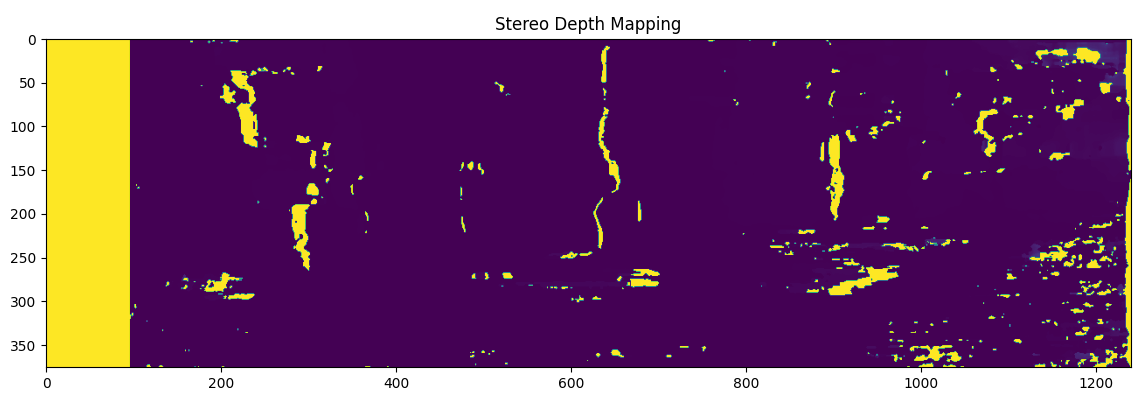
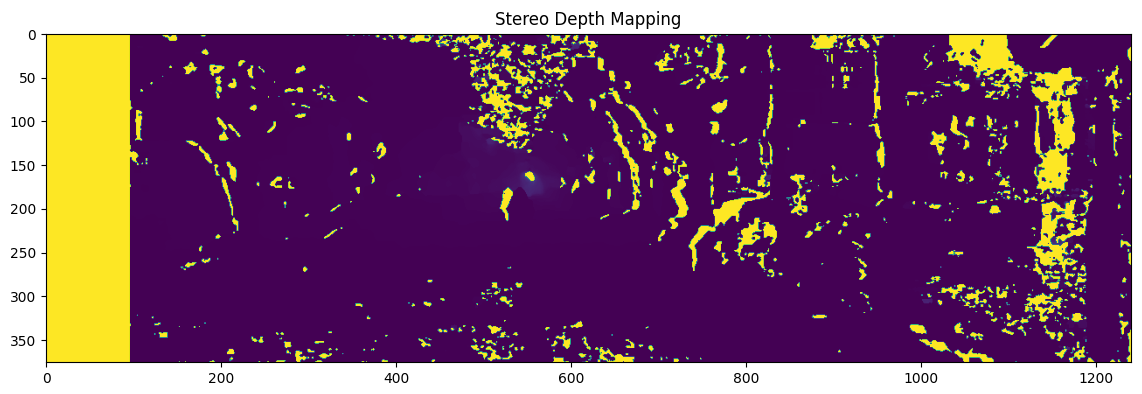
Feture Matching and Code Refactoring

diff --git a/script/dataloader.py b/script/dataloader.py
@@ -19,14 +19,13 @@ pose_path = config['data']['pose_path']
 
 
 class DataLoader(object):
-    def __init__(self, sequence, lidar=False, low_memory=True):
+    def __init__(self, sequence, low_memory=True):
         """
         :params str sequence: Image path.
         :params bool lidar: lidar data.
         :params bool low_memory: If you have low memory in your laptop(e.g. Your RAM < 32GB), set the value to True.    
         """
 
-        self.lidar = lidar
         self.low_memory = low_memory
 
         # Set the directories for images and ground truth
@@ -35,13 +34,11 @@ class DataLoader(object):
         poses = pd.read_csv(self.poses_dir, delimiter=' ', header=None)
 
         # Make lists of left and right camera images to iterate
-        self.left_camera_images = os.listdir(self.sequence_dir + 'image_0')
-        self.right_camera_images = os.listdir(self.sequence_dir + 'image_1')
+        self.left_camera_images = sorted(
+            os.listdir(self.sequence_dir + 'image_0'))
+        self.right_camera_images = sorted(
+            os.listdir(self.sequence_dir + 'image_1'))
 
-        # For lidar data points
-        if lidar:
-            self.velodyne_files = os.listdir(self.sequence_dir + 'velodyne')
-            self.lidar_path = self.sequence_dir + 'velodyne/'
         self.frames = len(self.left_camera_images)
 
         # Extract the calibration parameters from P matrix
@@ -51,11 +48,6 @@ class DataLoader(object):
         # Projection Matrices
         self.P0 = np.array(calibration.loc['P0:']).reshape((3, 4))
         self.P1 = np.array(calibration.loc['P1:']).reshape((3, 4))
-        self.P2 = np.array(calibration.loc['P2:']).reshape((3, 4))
-        self.P3 = np.array(calibration.loc['P3:']).reshape((3, 4))
-
-        # Transformation Matrix for lidar
-        #self.Tr = np.array(calibration.loc['Tr:']).reshape((3, 4))
 
         # Extract timestamps from the file
         self.times = np.array(pd.read_csv(self.sequence_dir + 'times.txt',
@@ -75,18 +67,13 @@ class DataLoader(object):
 
             # Store two left and two right frames for testing purposes
             self.first_image_left = cv2.imread(self.sequence_dir + 'image_0/'
-                                               + self.left_camera_images[0], 0)
+                                               + self.left_camera_images[0])
             self.first_image_right = cv2.imread(self.sequence_dir + 'image_1/'
-                                                + self.right_camera_images[0], 0)
+                                                + self.right_camera_images[0])
             self.second_image_left = cv2.imread(self.sequence_dir + 'image_0/'
-                                                + self.left_camera_images[1], 0)
+                                                + self.left_camera_images[1])
             self.second_image_right = cv2.imread(self.sequence_dir + 'image_1/'
-                                                 + self.right_camera_images[1], 0)
-
-            if self.lidar:
-                self.first_pointcloud = np.fromfile(self.lidar_path + self.velodyne_files[0],
-                                                    dtype=np.float32,
-                                                    count=-1).reshape((-1, 4))
+                                                 + self.right_camera_images[1])
 
             # Image dimensions
             self.image_height = self.first_image_left.shape[0]
@@ -105,18 +92,11 @@ class DataLoader(object):
                     self.sequence_dir + 'image_0/' + left))
                 self.right_images.append(cv2.imread(
                     self.sequence_dir + 'image_1/' + right))
-                if self.lidar:
-                    pointcloud = np.fromfile(self.lidar_path + self.velodyne_files[i],
-                                             dtype=np.float32,
-                                             count=-1).reshape([-1, 4])
-                    self.pointclouds.append(pointcloud)
 
             self.first_image_left = self.left_images[0]
             self.first_image_right = self.right_images[0]
             self.second_image_left = self.left_images[1]
             self.second_image_right = self.right_images[1]
-            if self.lidar:
-                self.first_pointcloud = self.pointclouds[0]
 
             self.image_height = self.left_images[0].shape[0]
             self.image_width = self.left_images[0].shape[1]
@@ -127,11 +107,6 @@ class DataLoader(object):
                             for left in self.left_camera_images)
         self.right_images = (cv2.imread(self.sequence_dir + 'image_1/' + right, 0)
                              for right in self.right_camera_images)
-        if self.lidar:
-            self.pointclouds = (np.fromfile(self.lidar_path + velodyne_file,
-                                            dtype=np.float32,
-                                            count=-1).reshape((-1, 4))
-                                for velodyne_file in self.velodyne_files)
         pass
 
     # Augmented Rotation and Translated Matrix from Ground Truth

diff --git a/script/utils.py b/script/utils.py
@@ -1,7 +1,10 @@
 import cv2
 import datetime
 import numpy as np
+import matplotlib.pyplot as plt
 
+
+############################################ Stereo Depth Estimation #########################################
 
 def disparity_mapping(left_image, right_image, rgb=False, verbose=False):
     '''
@@ -122,3 +125,69 @@ def stereo_depth(left_image, right_image, P0, P1, rgb=False, verbose=False):
     depth = depth_mapping(disp_map, l_intrinsic, l_translation, r_translation)
 
     return depth, disp_map
+
+
+############################################ Stereo Depth Estimation #########################################
+
+
+######################################### Feature Extraction and Matching ####################################
+
+def feature_extractor(image, detector='sift', mask=None):
+    """
+    provide keypoints and descriptors
+
+    :params image: image from the dataset
+
+    """
+    if detector == 'sift':
+        create_detector = cv2.SIFT_create()
+    elif detector == 'orb':
+        create_detector = cv2.ORB_create()
+
+    keypoints, descriptors = create_detector.detectAndCompute(image, mask)
+
+    return keypoints, descriptors
+
+
+def feature_matching(first_descriptor, second_descriptor, detector='sift', k=2):
+    """
+    Match features between two images
+
+    """
+
+    if detector == 'sift':
+        feature_matcher = cv2.BFMatcher_create(cv2.NORM_L2, crossCheck=False)
+    elif detector == 'orb':
+        feature_matcher = cv2.BFMatcher_create(
+            cv2.NORM_HAMMING2, crossCheck=False)
+    matches = feature_matcher.knnMatch(
+        first_descriptor, second_descriptor, k=k)
+
+    return matches
+
+
+def filter_matches_distance(matches, distance_threshold):
+    """
+    Filter matched features from two images by distance between the best matches
+
+    """
+    filtered_matches = []
+    for match1, match2 in matches:
+        if match1.distance <= distance_threshold * match2.distance:
+            filtered_matches.append(match1)
+
+    return filtered_matches
+
+
+def visualize_matches(first_image, second_image, keypoint_one, keypoint_two, matches):
+    """
+    Visualize corresponding matches in two images
+
+    """
+    show_matches = cv2.drawMatches(
+        first_image, keypoint_one, second_image, keypoint_two, matches, None, flags=2)
+    plt.figure(figsize=(15, 5), dpi=100)
+    plt.imshow(show_matches)
+    plt.show()
+
+######################################### Feature Extraction and Matching ####################################

diff --git a/script/main.py b/script/main.py
@@ -1,0 +1,70 @@
+import cv2
+import datetime
+import matplotlib.pyplot as plt
+import numpy as np
+import os
+import pandas as pd
+import yaml
+from dataloader import DataLoader
+from utils import stereo_depth, feature_extractor, feature_matching, filter_matches_distance, visualize_matches
+from mpl_toolkits.mplot3d import Axes3D
+
+
+# Driver Code
+if __name__ == '__main__':
+
+    # Load Config File
+    with open("../config/initial_config.yaml", "r") as stream:
+        try:
+            config = yaml.safe_load(stream)
+        except yaml.YAMLError as error:
+            print(error)
+
+    # Declare Necessary Variables
+    sequence = config['data']['sequence']
+
+    # Create Instances
+    data_handler = DataLoader(sequence=sequence)
+
+    # Local variables
+    left_image = data_handler.first_image_left
+    right_image = data_handler.first_image_right
+    next_left_image = data_handler.second_image_left
+    left_camera_matrix = data_handler.P0
+    right_camera_matrix = data_handler.P1
+
+    # Visualise Ground Truth
+    print(data_handler.gt_visualisation())
+
+    # # To know matrices of each frame wrt. to the world coordinate
+    # print(
+    #     f'The translation of that frame wrt. world coordinate \n{data_handler.gt_translation_matrix()}\n')
+    # print(
+    #     f'The rotation of that frame wrt. world coordinate \n{data_handler.gt_rotation_matrix()}\n')
+
+    data_handler.reset_frames()
+
+    # depth and disparity maps
+    depth, disp_map = stereo_depth(left_image,
+                                   right_image,
+                                   left_camera_matrix,
+                                   right_camera_matrix)
+
+    plt.figure(figsize=(14, 8))
+    plt.title('Stereo Depth Mapping')
+    plt.imshow(depth)
+
+    plt.figure(figsize=(14, 8))
+    plt.title('Disparity Mapping')
+    plt.imshow(disp_map)
+
+    first_keypoints, first_descriptors = feature_extractor(left_image, 'orb')
+    second_keypoints, second_descriptors = feature_extractor(
+        next_left_image, 'orb')
+    matches = feature_matching(
+        first_descriptors, second_descriptors, detector='orb')
+    print('Number of matches before filtering:', len(matches))
+    matches = filter_matches_distance(matches, 0.75)
+    print('Number of matches after filtering:', len(matches))
+    visualize_matches(left_image, next_left_image,
+                      first_keypoints, second_keypoints, matches)

diff --git a/script/visual_odometry.py b/script/visual_odometry.py
@@ -7,47 +7,3 @@ import pandas as pd
 import yaml
 from dataloader import DataLoader
 from utils import stereo_depth
-
-
-# Driver Code
-if __name__ == '__main__':
-
-    # Load Config File
-    with open("../config/initial_config.yaml", "r") as stream:
-        try:
-            config = yaml.safe_load(stream)
-        except yaml.YAMLError as error:
-            print(error)
-
-    # Declare Necessary Variables
-    sequence = config['data']['sequence']
-
-    # Create Instances
-    data_handler = DataLoader(sequence=sequence)
-
-    # Local variables
-    left_image = data_handler.first_image_left
-    right_image = data_handler.first_image_right
-    left_camera_matrix = data_handler.P0
-    right_camera_matrix = data_handler.P1
-
-    # Visualise Ground Truth
-    # print(data_handler.gt_visualisation())
-
-    # # To know matrices of each frame wrt. to the world coordinate
-    # print(
-    #     f'The translation of that frame wrt. world coordinate \n{data_handler.gt_translation_matrix()}\n')
-    # print(
-    #     f'The rotation of that frame wrt. world coordinate \n{data_handler.gt_rotation_matrix()}\n')
-
-    depth_map, disp_map = stereo_depth(left_image, right_image,
-                                       left_camera_matrix, right_camera_matrix)
-
-    plt.figure(figsize=(14, 8))
-    plt.title('Stereo Depth Mapping')
-    plt.imshow(depth_map)
-
-    plt.figure(figsize=(14, 8))
-    plt.title('Disparity Map of the Left Camera')
-    plt.imshow(disp_map)
-    plt.show()

diff --git a/ReadME.MD b/ReadME.MD
@@ -2,24 +2,37 @@
 
 This repo contains an implementation of stereo visual odometry algorithms for road vehicles. For experimental evaluation and validation KITTI dataset has been used.
 
-> First, download the KITTI odometry dataset. Copy the *sequence* folder from the KITTI dataset and paste it inside the **datasets** folder. 
+> First, download the KITTI odometry dataset. Copy the _sequence_ folder from the KITTI dataset and paste it inside the **datasets** folder.
 
 > To visualise the groud truth pose of the camera, disparity map, and stereo depth map, run the following commands
 
 ```
-$ cd scripts/ 
-$ python3 visual_odometry.py
+$ cd script/
+$ python3 main.py
 ```
+
 ### You will get a 3D output like this
+
 ![](https://github.com/NafBZ/Stereo-Visual-Odometry/blob/master/figures/gT.gif)
 
 ### Disparity Map
+
 ![](https://github.com/NafBZ/Stereo-Visual-Odometry/blob/nafees/figures/disparity.png)
 
 ### Stereo Depth Map
+
 ![](https://github.com/NafBZ/Stereo-Visual-Odometry/blob/nafees/figures/depth.png)
 
-### Contributors: 
+### Feature Matching Using ORB
+
+![](https://github.com/NafBZ/Stereo-Visual-Odometry/blob/nafees/figures/orb_match.png)
+
+### Feature Matching Using SIFT
+
+![](https://github.com/NafBZ/Stereo-Visual-Odometry/blob/nafees/figures/sift_match.png)
+
+### Contributors:
+
 - [Nafees Bin Zaman](https://github.com/NafBZ)
 - [Bruk Gebregziabher](https://github.com/brukg)
 - [Jad Mansour](https://github.com/j4dooooo)
